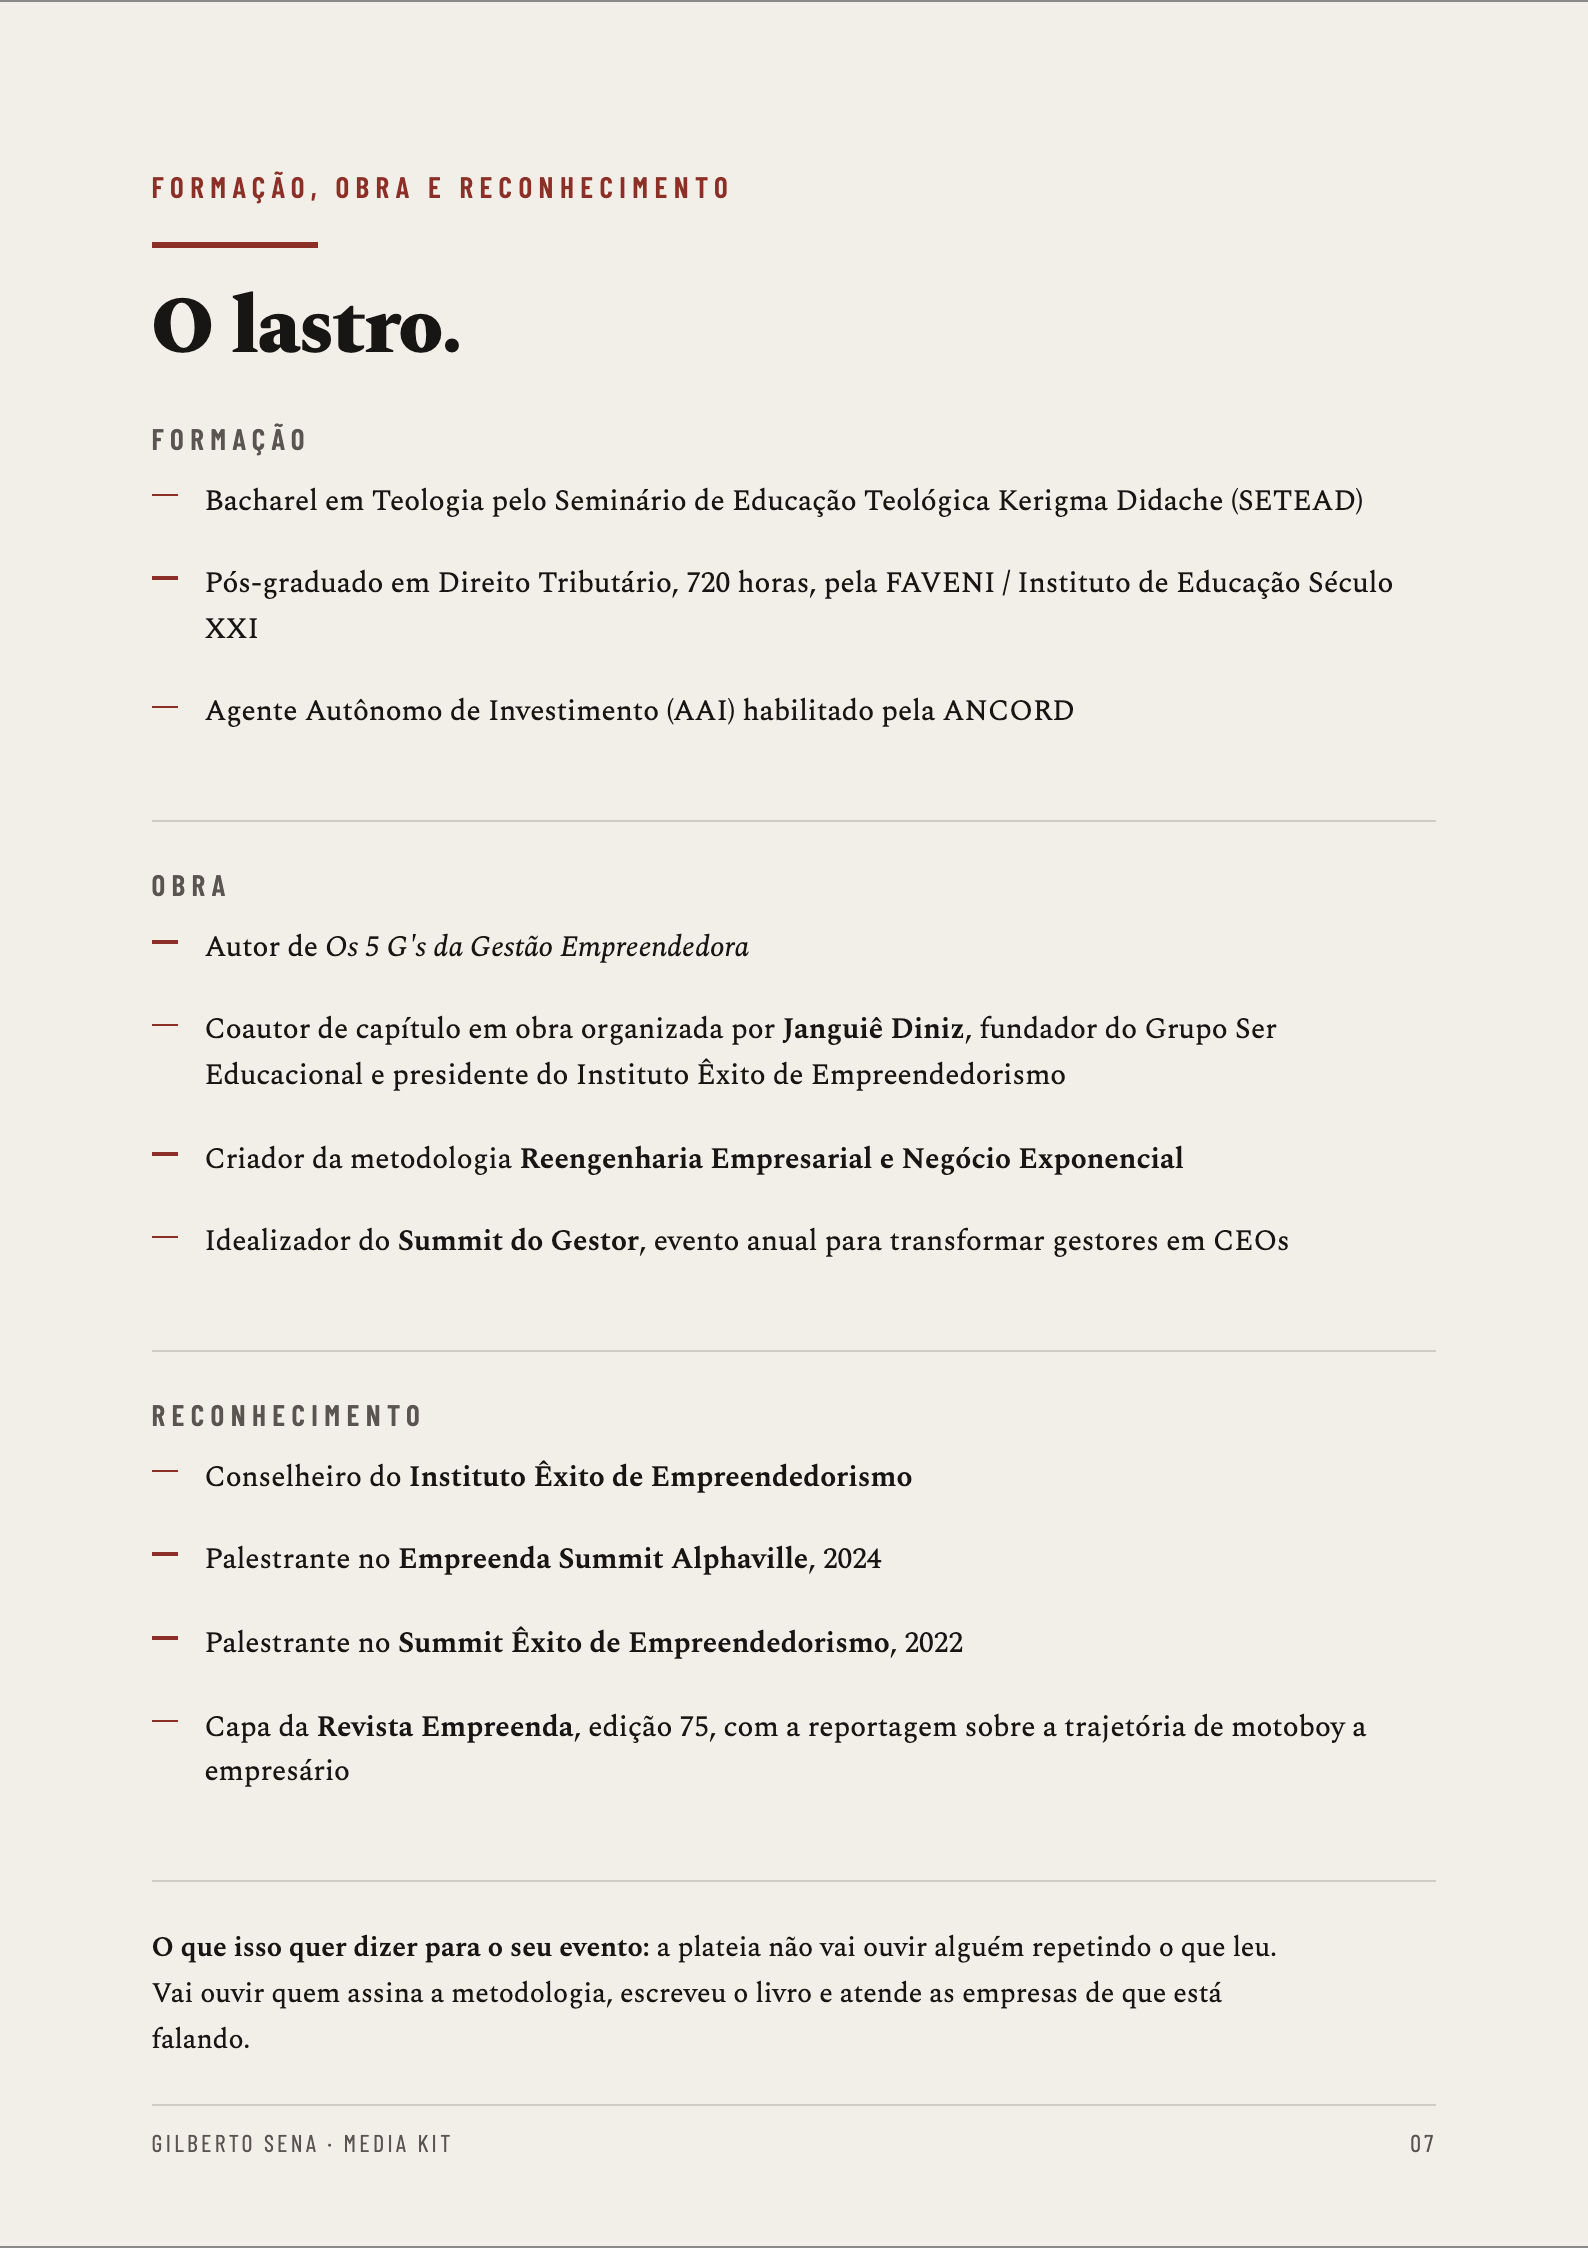
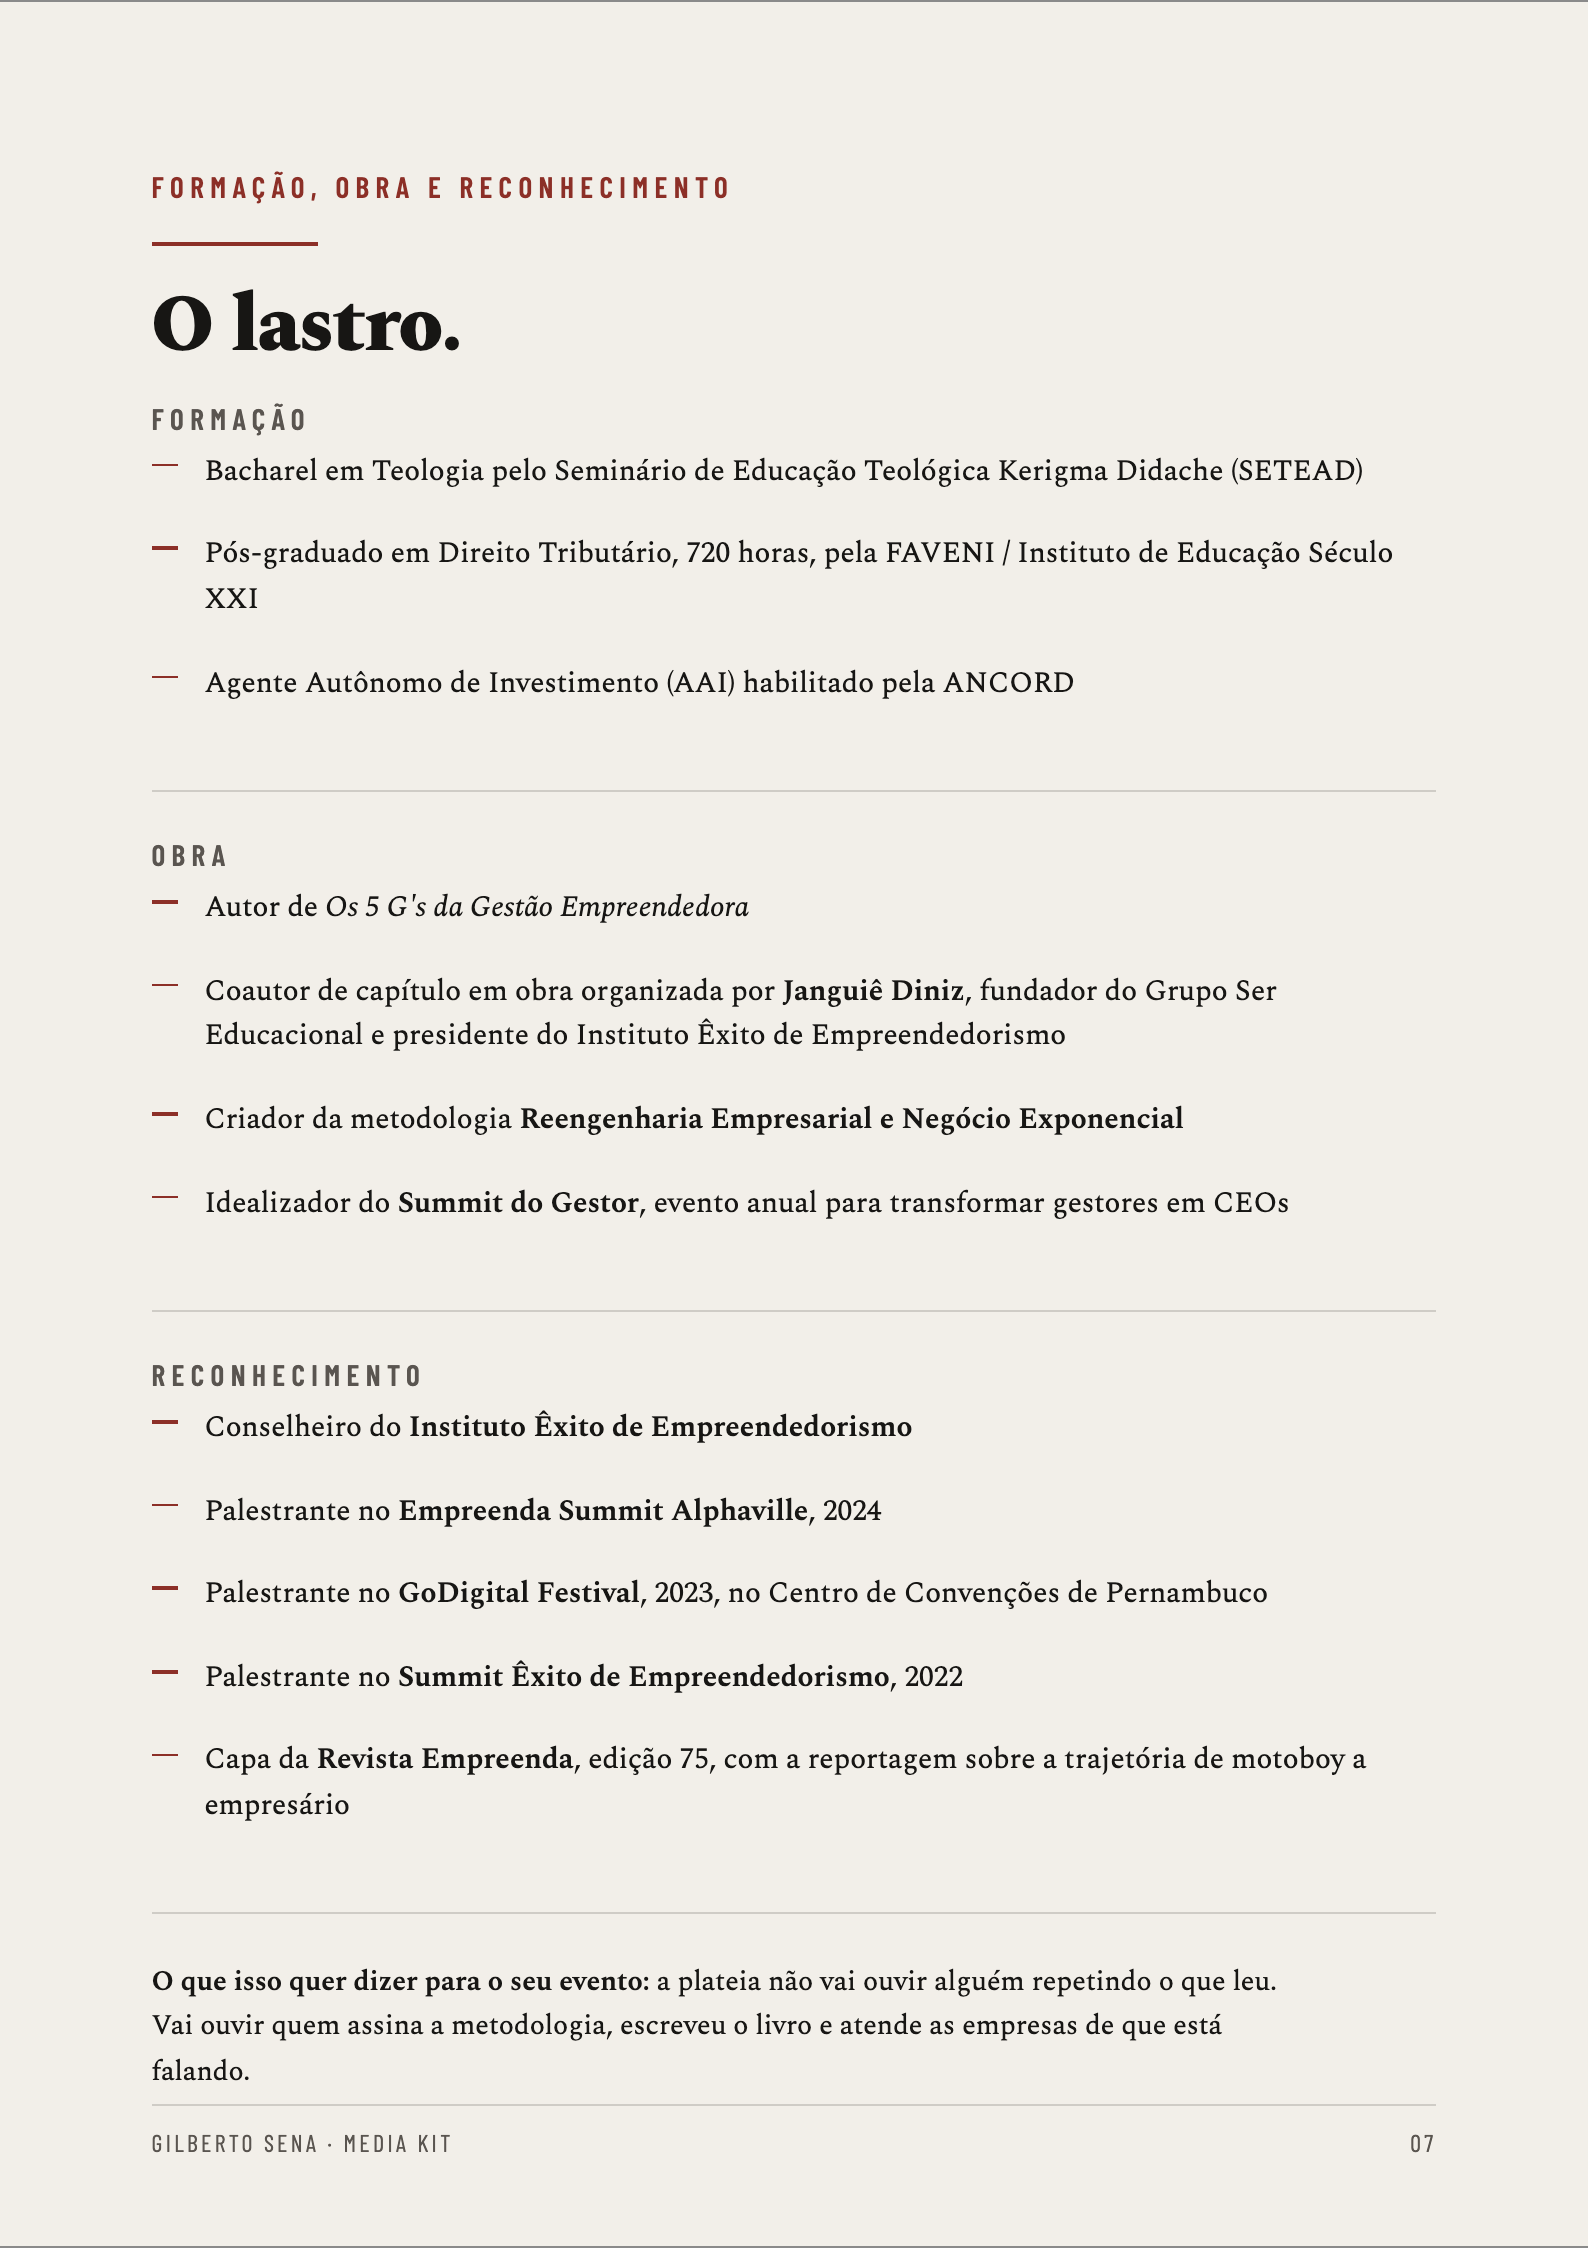
GoDigital entra como palestra: ele confirmou
Eu tinha segurado porque o certificado no PC dele diz 'participou, 36 horas',
que e o texto de quem assistiu. Ele respondeu 'Go digital palestrei'.

A palavra dele vale sobre a propria historia. Estava certo em levantar a
duvida uma vez, porque credencial de palestra e o que organizador confere, e
estaria errado em insistir depois da resposta.

Entrou nas duas paginas do kit e ficou registrado em memoria pra eu nao
perguntar de novo.

diff --git a/saidas/NEGOCIOS-E-MARCA/media-kit-palestrante-2026-10-14/media-kit.html b/saidas/NEGOCIOS-E-MARCA/media-kit-palestrante-2026-10-14/media-kit.html
@@ -263,6 +263,9 @@ em{font-style:italic}
       <p class="corpo" style="max-width:none"><b>Summit Êxito de Empreendedorismo, 2022.</b>
       Palestrante no evento do Instituto Êxito, maior instituto de empreendedorismo
       do Brasil, presidido por Janguiê Diniz.</p>
+      <p class="corpo" style="max-width:none"><b>GoDigital Festival 2023.</b>
+      Palestrante na edição realizada no Centro de Convenções de Pernambuco,
+      em janeiro de 2023.</p>
       <p class="corpo" style="max-width:none"><b>Imersão Reengenharia Empresarial.</b>
       Formato próprio, em grupo fechado de empresários, com diagnóstico de cada
       negócio presente na sala.</p>
@@ -387,6 +390,7 @@ em{font-style:italic}
   <ul class="cred">
     <li>Conselheiro do <b>Instituto Êxito de Empreendedorismo</b></li>
     <li>Palestrante no <b>Empreenda Summit Alphaville</b>, 2024</li>
+    <li>Palestrante no <b>GoDigital Festival</b>, 2023, no Centro de Convenções de Pernambuco</li>
     <li>Palestrante no <b>Summit Êxito de Empreendedorismo</b>, 2022</li>
     <li>Capa da <b>Revista Empreenda</b>, edição 75, com a reportagem sobre a trajetória de motoboy a empresário</li>
   </ul>
